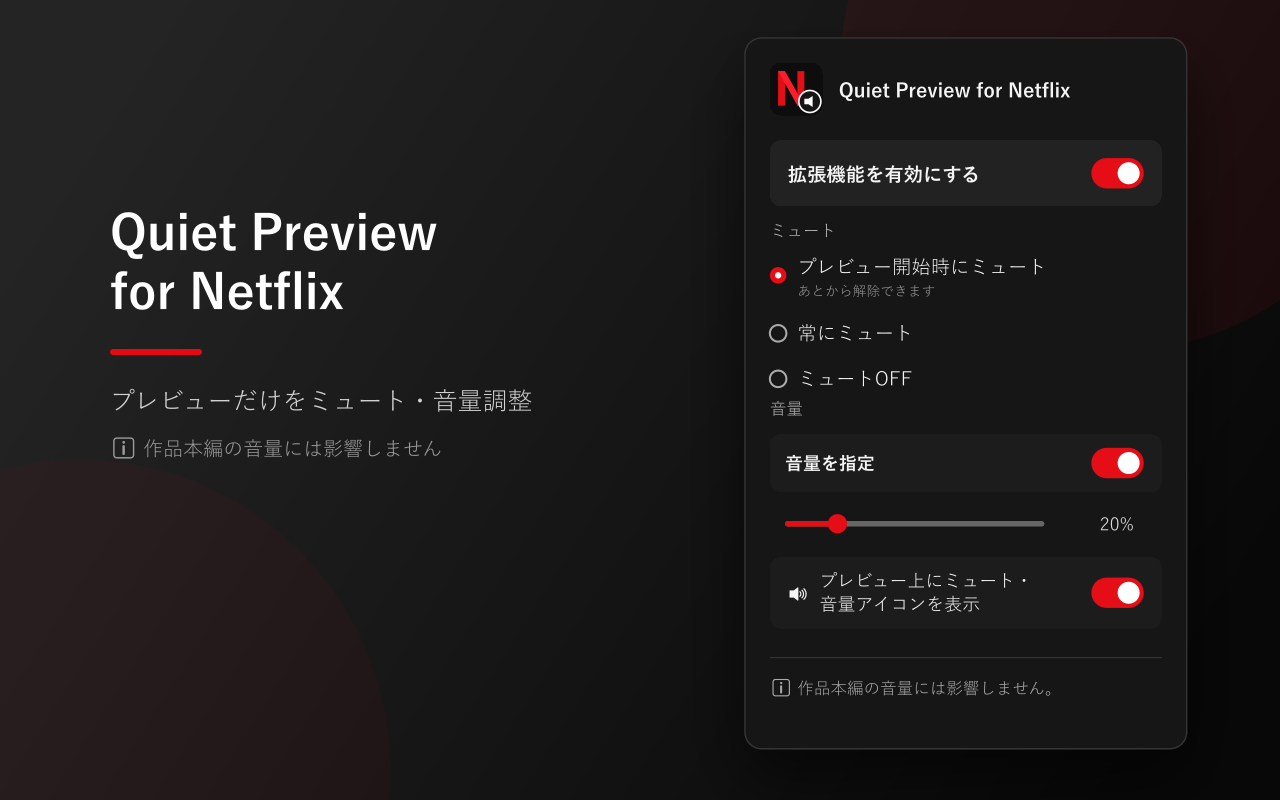
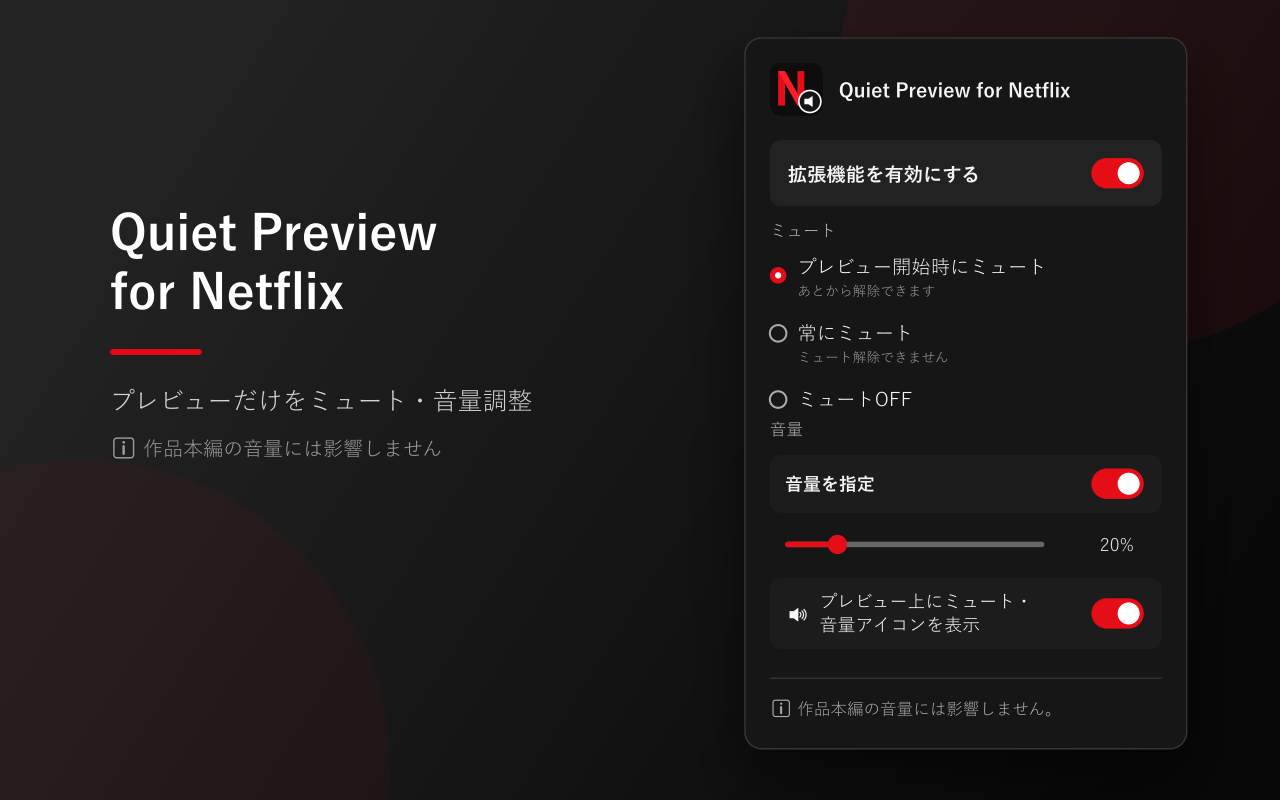
Explain always mute behavior

diff --git a/popup.html b/popup.html
@@ -32,7 +32,10 @@
           </label>
           <label class="choice">
             <input type="radio" name="mode" value="mute">
-            <span>常にミュート</span>
+            <span class="choice-copy">
+              <span>常にミュート</span>
+              <small>ミュート解除できません</small>
+            </span>
           </label>
           <label class="choice">
             <input type="radio" name="mode" value="off">
